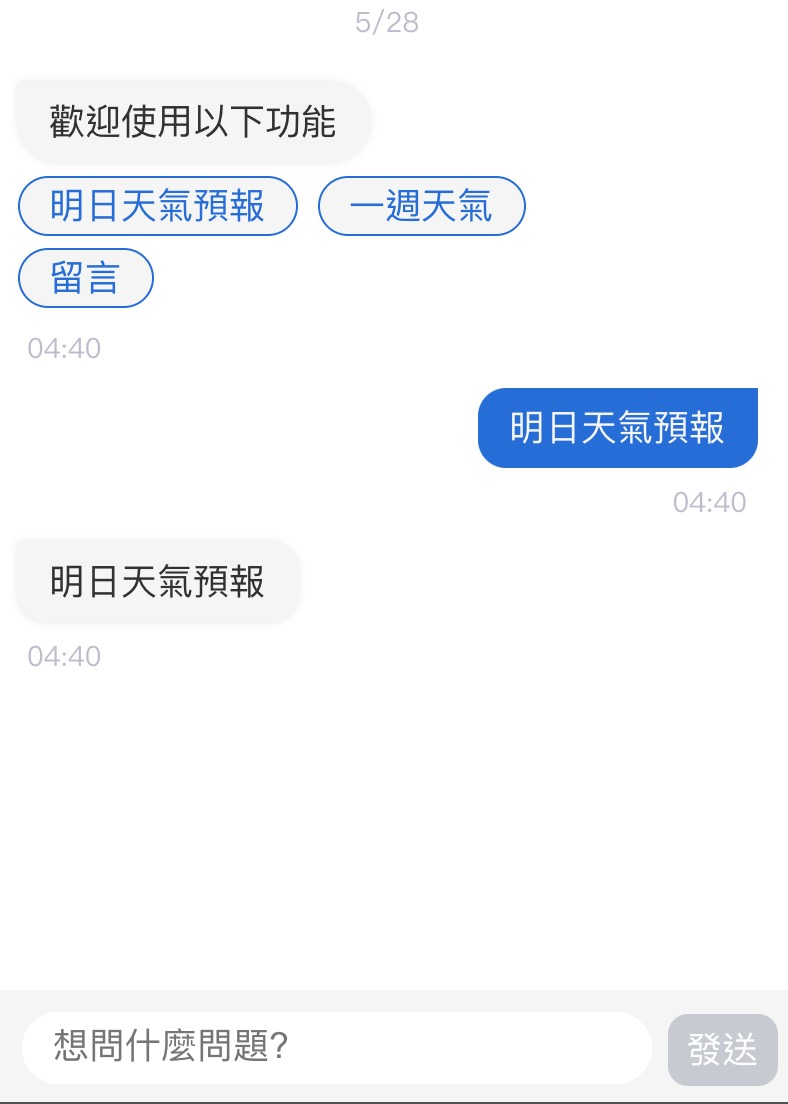
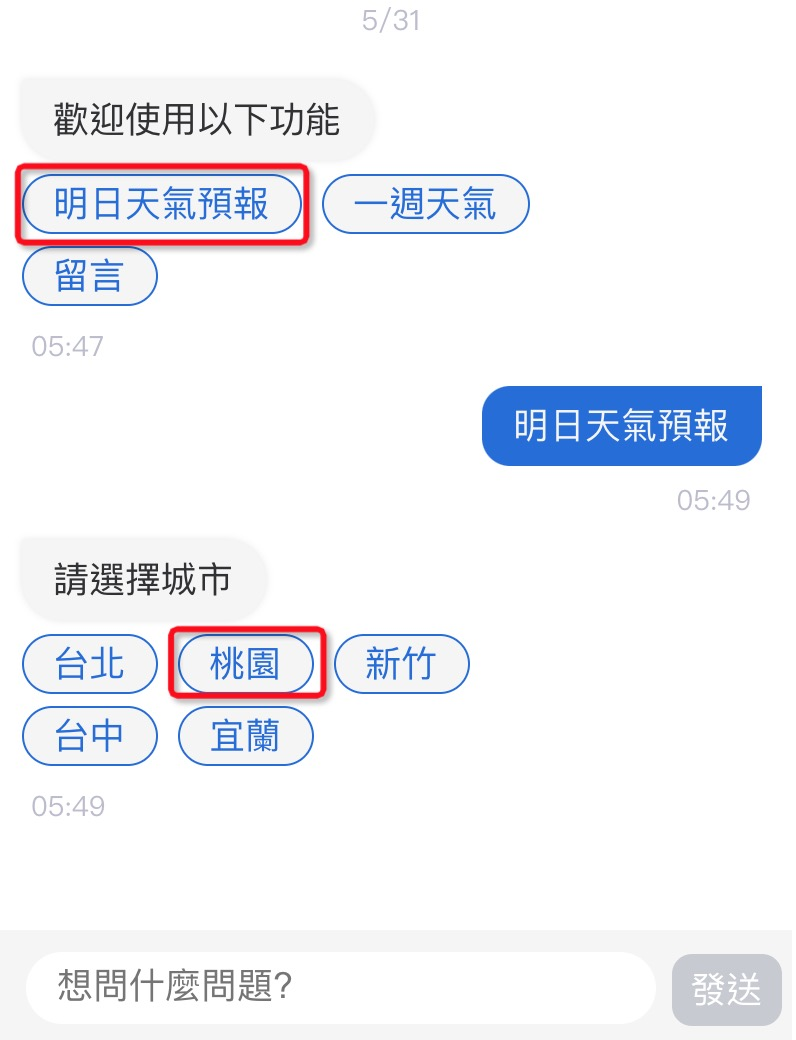
upgrade

diff --git a/app/view/chat.html b/app/view/chat.html
@@ -65,6 +65,11 @@
 							<li data-target="#carouselExampleIndicators" data-slide-to="0" class="active"></li>
 							<li data-target="#carouselExampleIndicators" data-slide-to="1"></li>
 							<li data-target="#carouselExampleIndicators" data-slide-to="2"></li>
+							<li data-target="#carouselExampleIndicators" data-slide-to="3"></li>
+							<li data-target="#carouselExampleIndicators" data-slide-to="4"></li>
+							<li data-target="#carouselExampleIndicators" data-slide-to="5"></li>
+							<li data-target="#carouselExampleIndicators" data-slide-to="6"></li>
+							<li data-target="#carouselExampleIndicators" data-slide-to="7"></li>
 						</ol>
 						<div class="carousel-inner">
 							<div class="carousel-item active">
@@ -75,17 +80,52 @@
 								</div>
 							</div>
 							<div class="carousel-item">
-								<img class="d-block" src="img/8-2.png" alt="01">
+								<img class="d-block" src="img/8-3.png" alt="01">
 								<div class="carousel-caption">
-									<h5>學畫機器人</h5>
-									<p></p>
+									<h5>查詢明日天氣</h5>
+									<p>點擊『明日天氣預報』</p>
 								</div>
 							</div>
 							<div class="carousel-item">
-								<img class="d-block" src="img/8-3.png" alt="01">
+								<img class="d-block" src="img/8-4.png" alt="01">
 								<div class="carousel-caption">
-									<h5>查詢天氣</h5>
-									<p>查氣象資料與留言功能已與linebot backend串接完成<br>但聊天頁面呈現方式開發中，UI目前無法看到成果</p>
+									<p></p>
+									<h5>選擇城市</h5>
+								</div>
+							</div>
+							<div class="carousel-item">
+								<img class="d-block" src="img/8-5.png" alt="01">
+								<div class="carousel-caption">
+									<h5>查詢一週天氣</h5>
+									<p>點擊『一週天氣』</p>
+								</div>
+							</div>
+							<div class="carousel-item">
+								<img class="d-block" src="img/8-6.png" alt="01">
+								<div class="carousel-caption">
+									<p></p>
+									<h5>選擇城市</h5>
+								</div>
+							</div>
+							<div class="carousel-item">
+								<img class="d-block" src="img/8-7.png" alt="01">
+								<div class="carousel-caption">
+									<h5>使用留言功能</h5>
+									<p>點擊『留言』</p>
+								</div>
+							</div>
+							<div class="carousel-item">
+								<img class="d-block" src="img/8-8.png" alt="01">
+								<div class="carousel-caption">
+									<p></p>
+									<h5>輸入想留下的訊息</h5>
+								</div>
+							</div>
+							<div class="carousel-item">
+								<img class="d-block" src="img/8-2.png" alt="01">
+								<div class="carousel-caption">
+									<p></p>
+									<h5>學畫機器人</h5>
 								</div>
 							</div>
 						</div>
